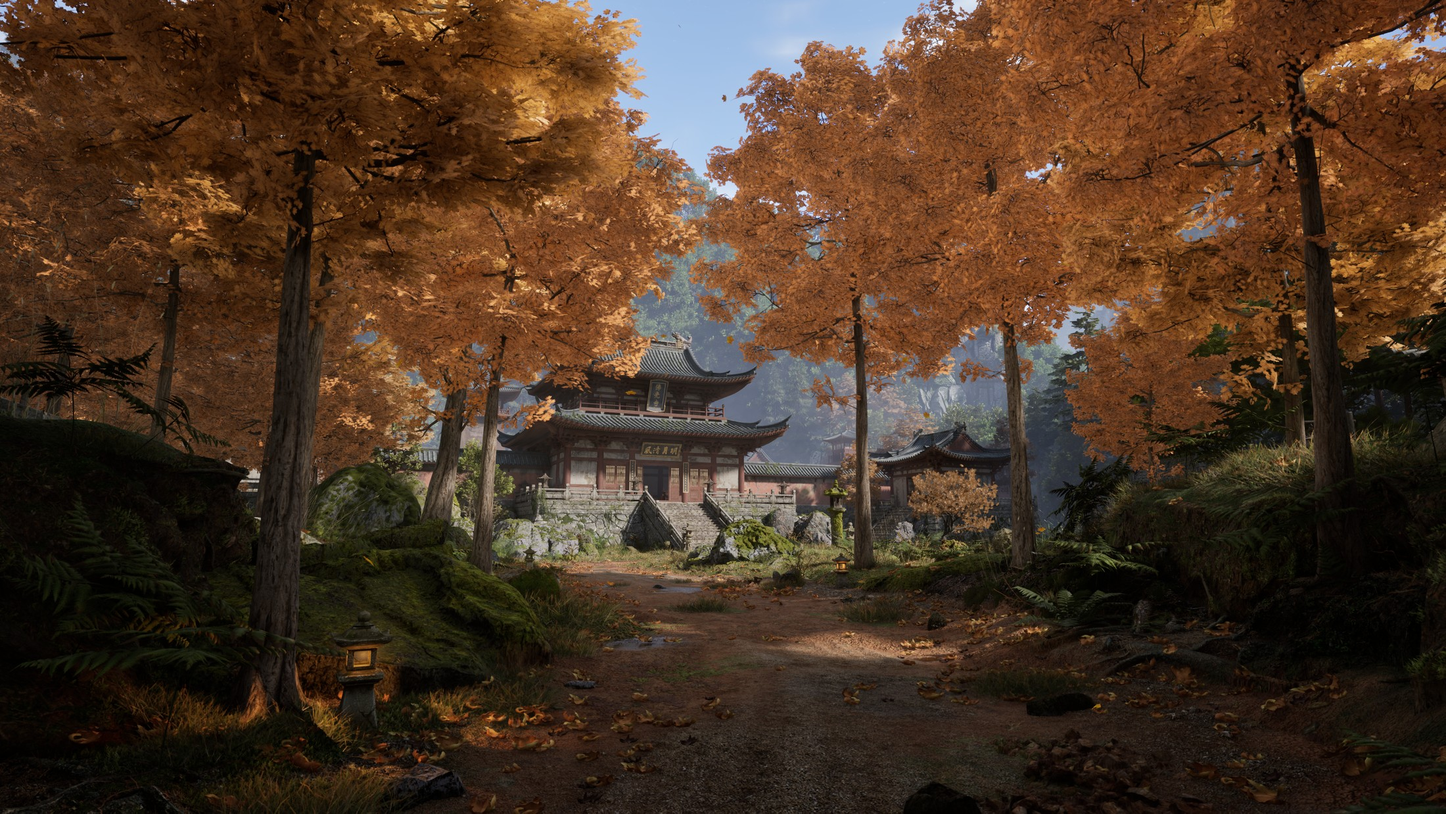
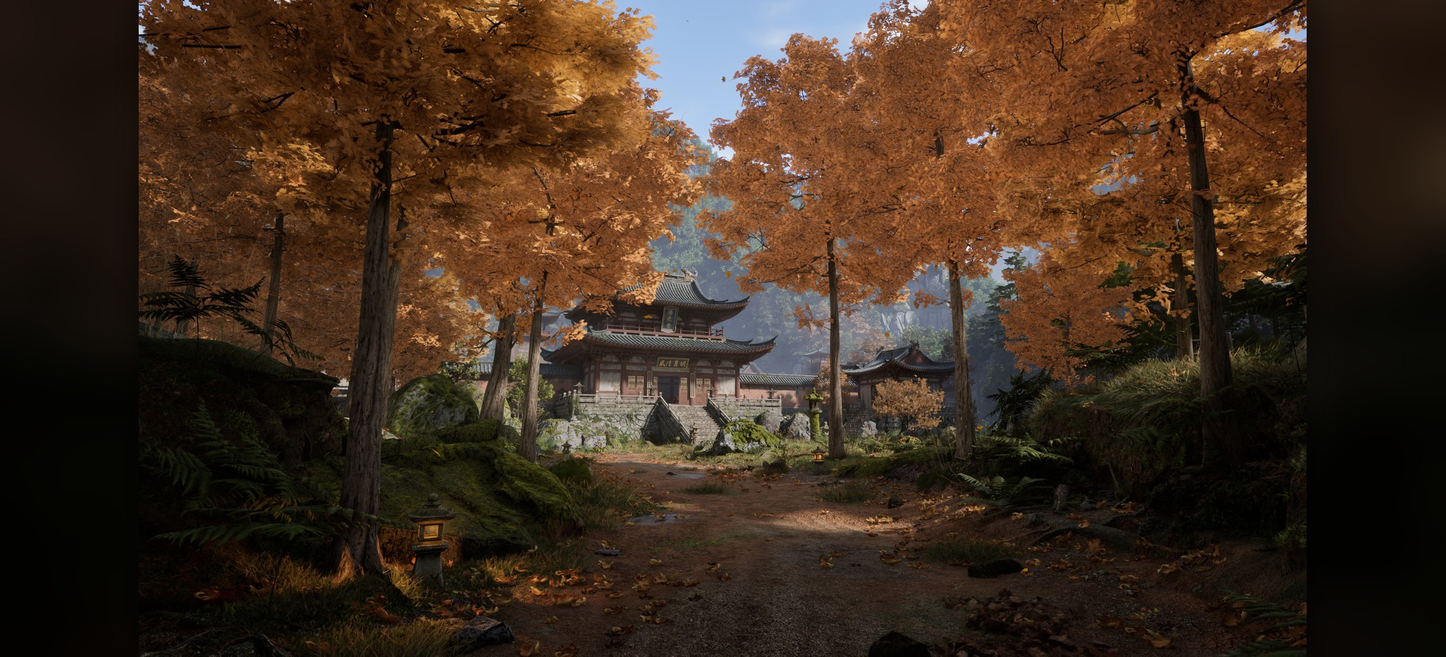
场景页：封面外四张统一成 2.2:1 等大画框（自身虚化压暗做衬底、原图不裁切），排成 2x2

diff --git a/resume/index.html b/resume/index.html
@@ -1262,6 +1262,8 @@ html[data-style="L"] .sidebar .s-block{ margin-bottom:20px !important; }
 .ph-resp{ margin-top:1.5mm; font-size:8pt; font-weight:400; line-height:1.55; color:rgba(255,255,255,.74); letter-spacing:.01em; }
 
 /* 2×2 拼图格子 */
+.grid4eq{ display:grid; grid-template-columns:1fr 1fr; gap:2.5mm; margin:2.5mm 0 0; }
+.grid4eq img{ width:100%; height:auto; display:block; }
 .grid3{ display:grid; grid-template-columns:repeat(3,1fr); gap:2.5mm; margin:2.5mm 0 0; align-items:center; }
 .grid3 img{ width:100%; height:auto; display:block; }
 .grid2x2{ display:grid; grid-template-columns:1fr 1fr; gap:2.5mm; margin:2.5mm 0 0; }
@@ -1560,8 +1562,7 @@ body{padding:0 !important; background:#fff !important; display:block !important;
     <div class="ph"><div class="ph-row"><span class="ph-n">06</span><span class="ph-t">场景 / Environments</span><span class="ph-m">山寺场景 · 5 个机位 · 实机</span></div>
       <div class="ph-resp">同一座山寺场景的五个机位：秋林全景建立、殿前土路纵深、室内烛光、石栏小亭与正殿逆光，覆盖户外天光到室内暗部的完整气氛。</div></div>
     <div class="band" style="margin-top:0"><img src="../assets/env_1.jpg" alt="山寺场景 · 秋林全景"></div>
-    <div class="band" style="margin-top:2.5mm;width:92%;margin-left:auto;margin-right:auto"><img src="../assets/env_2.jpg" alt="山寺场景 · 殿前土路"></div>
-    <div class="grid3"><img src="../assets/env_3.jpg" alt="山寺场景 · 室内烛光"><img src="../assets/env_4.jpg" alt="山寺场景 · 石栏小亭"><img src="../assets/env_5.jpg" alt="山寺场景 · 正殿逆光"></div>
+    <div class="grid4eq"><img src="../assets/env_2.jpg" alt="山寺场景 · 殿前土路"><img src="../assets/env_3.jpg" alt="山寺场景 · 室内烛光"><img src="../assets/env_4.jpg" alt="山寺场景 · 石栏小亭"><img src="../assets/env_5.jpg" alt="山寺场景 · 正殿逆光"></div>
   </div>
 </div>
 
